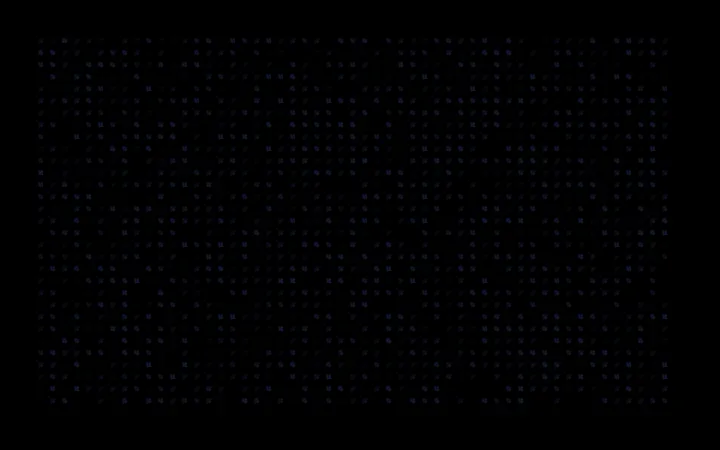
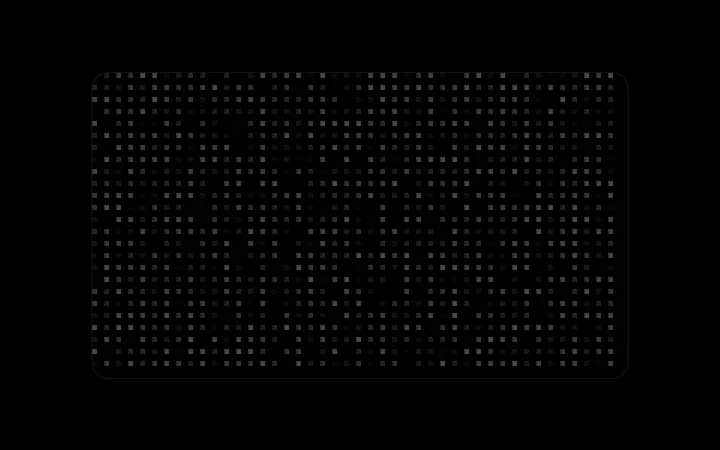
fix(docs): re-capture catalogue thumbnails with a stricter blank check (#395)
* fix(docs): give directly rendered previews a sized stage and full-width sparkles examples

* fix(flickering-grid,bg-falling-stars,sparkles): theme-aware default colours so previews show in both themes

FlickeringGrid and FallingStarsBg default to currentColor (re-read per frame) instead of fixed black/white; Sparkles accepts currentColor. Docs: sparkles hero uses currentColor, glow-border hero gets a visible child, falling-stars examples follow the theme. Three frameworks at parity.

* fix(docs): keep previews centred and give collapsing roots a sized stage

The stage is display: contents by default so library roots stay flex items of the
preview frame; only roots that collapse without a definite height (sparkles,
bg-stars) get a centred 300px box. Sparkles preview gets an opaque backdrop so
white particles show in light theme.

* test(docs): drop superseded sparkles backdrop assertion after merging theme-aware defaults

* feat(docs): capture the missing and blank gallery thumbnails and gate the manifest
[…]

diff --git a/src/lib/components/docs/thumbs.test.ts b/src/lib/components/docs/thumbs.test.ts
@@ -1,0 +1,85 @@
+import { existsSync, statSync } from "node:fs";
+import { join } from "node:path";
+import { describe, it, expect } from "vitest";
+import { registry } from "$lib/fancy-ui/registry";
+import { isNearUniform } from "../../../../scripts/lib/thumb-uniformity.mjs";
+import thumbs from "./thumbs.json";
+
+const root = join(process.cwd(), "static", "thumbs");
+const manifest = thumbs as Record<string, boolean>;
+const doneSlugs = Object.values(registry)
+	.filter((c) => c.status === "done")
+	.map((c) => c.slug);
+// A blank 720x450 WebP encodes to ~1.1 KB (the blank light/sparkles and
+// light/bg-falling-stars captures were 1138 B each); the smallest real
+// thumbnail (light/skeleton) is 1350 B. 1200 B separates the two.
+const MIN_BYTES = 1200;
+
+describe("gallery thumbnail manifest", () => {
+	it("has an explicit true/false entry for every done registry slug", () => {
+		const missing = doneSlugs.filter((s) => typeof manifest[s] !== "boolean");
+		expect(missing).toEqual([]);
+	});
+
+	it("lists no slug that is not in the registry", () => {
+		const known = new Set(doneSlugs);
+		expect(Object.keys(manifest).filter((s) => !known.has(s))).toEqual([]);
+	});
+
+	it("has both theme files for every true entry, none as small as a blank frame", () => {
+		const problems: string[] = [];
+		for (const [slug, ok] of Object.entries(manifest)) {
+			if (!ok) continue;
+			for (const theme of ["dark", "light"]) {
+				const file = join(root, theme, `${slug}.webp`);
+				if (!existsSync(file)) problems.push(`${theme}/${slug}: missing`);
+				else if (statSync(file).size < MIN_BYTES)
+					problems.push(`${theme}/${slug}: under ${MIN_BYTES} B (blank?)`);
+			}
+		}
+		expect(problems).toEqual([]);
+	});
+});
+
+describe("isNearUniform", () => {
+	const frame = (
+		w: number,
+		h: number,
+		fill: (x: number, y: number) => [number, number, number]
+	) => {
+		const data = new Uint8ClampedArray(w * h * 4);
+		for (let y = 0; y < h; y++)
+			for (let x = 0; x < w; x++) {
+				const [r, g, b] = fill(x, y);
+				data.set([r, g, b, 255], (y * w + x) * 4);
+			}
+		return data;
+	};
+	it("flags a flat frame", () => {
+		expect(
+			isNearUniform(
+				frame(40, 25, () => [10, 10, 10]),
+				40,
+				25
+			)
+		).toBe(true);
+	});
+	it("flags a frame with a few stray pixels", () => {
+		const d = frame(160, 100, () => [10, 10, 10]);
+		d.set([255, 255, 255, 255], 0);
+		expect(isNearUniform(d, 160, 100)).toBe(true);
+	});
+	it("accepts a sparse real control (about 0.1% content, like a lone icon button)", () => {
+		// 160x100 = 16000 px; a 4x4 block is 16 px = 0.1%.
+		const d = frame(160, 100, (x, y) =>
+			x >= 70 && x < 74 && y >= 48 && y < 52 ? [240, 240, 240] : [10, 10, 10]
+		);
+		expect(isNearUniform(d, 160, 100)).toBe(false);
+	});
+	it("accepts a frame with real content", () => {
+		const d = frame(40, 25, (x, y) =>
+			x > 10 && x < 30 && y > 6 && y < 18 ? [240, 240, 240] : [10, 10, 10]
+		);
+		expect(isNearUniform(d, 40, 25)).toBe(false);
+	});
+});

diff --git a/src/lib/components/docs/DemoRenderer.theme.test.ts b/src/lib/components/docs/DemoRenderer.theme.test.ts
@@ -1,0 +1,37 @@
+import { render, cleanup, waitFor } from "@testing-library/svelte";
+import { afterEach, beforeEach, describe, it, expect, vi } from "vitest";
+import DemoRenderer, { defaultProps } from "./DemoRenderer.svelte";
+
+describe("DemoRenderer theme-aware defaults", () => {
+	beforeEach(() => {
+		global.ResizeObserver = class {
+			observe = vi.fn();
+			unobserve = vi.fn();
+			disconnect = vi.fn();
+		} as unknown as typeof ResizeObserver;
+		global.IntersectionObserver = class {
+			observe = vi.fn();
+			unobserve = vi.fn();
+			disconnect = vi.fn();
+		} as unknown as typeof IntersectionObserver;
+	});
+
+	afterEach(cleanup);
+
+	it("previews sparkles with currentColor particles on a dark backdrop", () => {
+		expect(defaultProps.sparkles?.particleColor).toBe("currentColor");
+		expect(defaultProps.sparkles?.background).toBe("#0b1020");
+	});
+
+	it("renders the glow-border hero with a visible child, not an empty frame", async () => {
+		const { container } = render(DemoRenderer, { slug: "glow-border" });
+		await waitFor(
+			() => {
+				const label = container.querySelector("[data-glow-border-demo]");
+				expect(label).toBeInTheDocument();
+				expect(label?.textContent?.trim().length).toBeGreaterThan(0);
+			},
+			{ timeout: 10_000 }
+		);
+	}, 20_000);
+});
